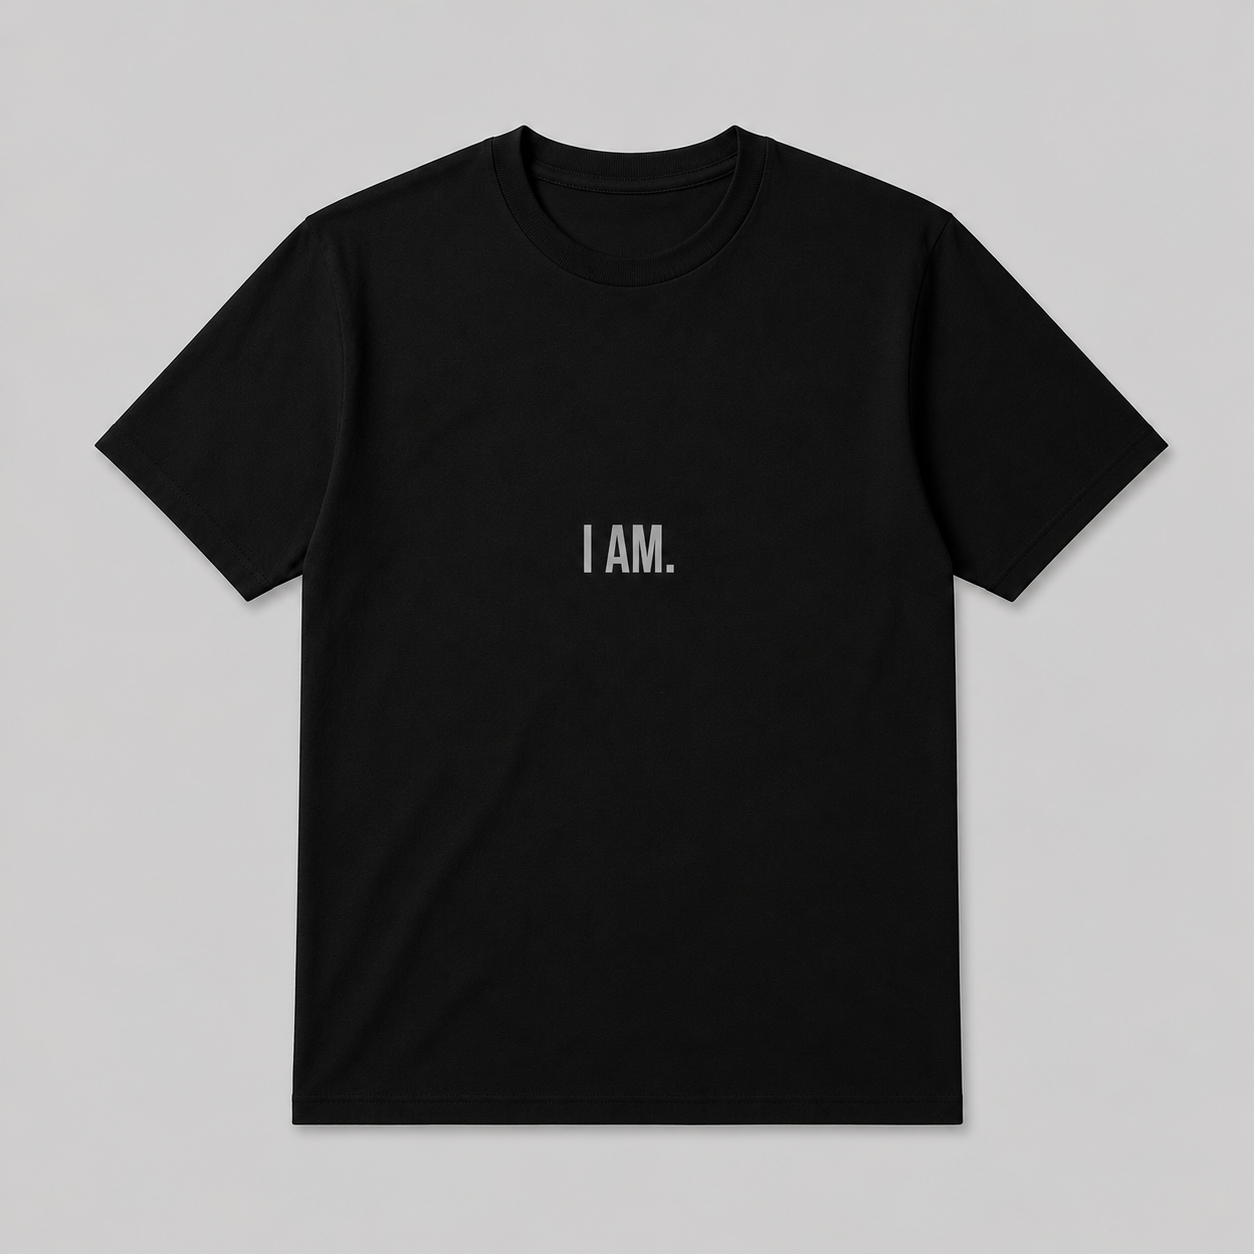
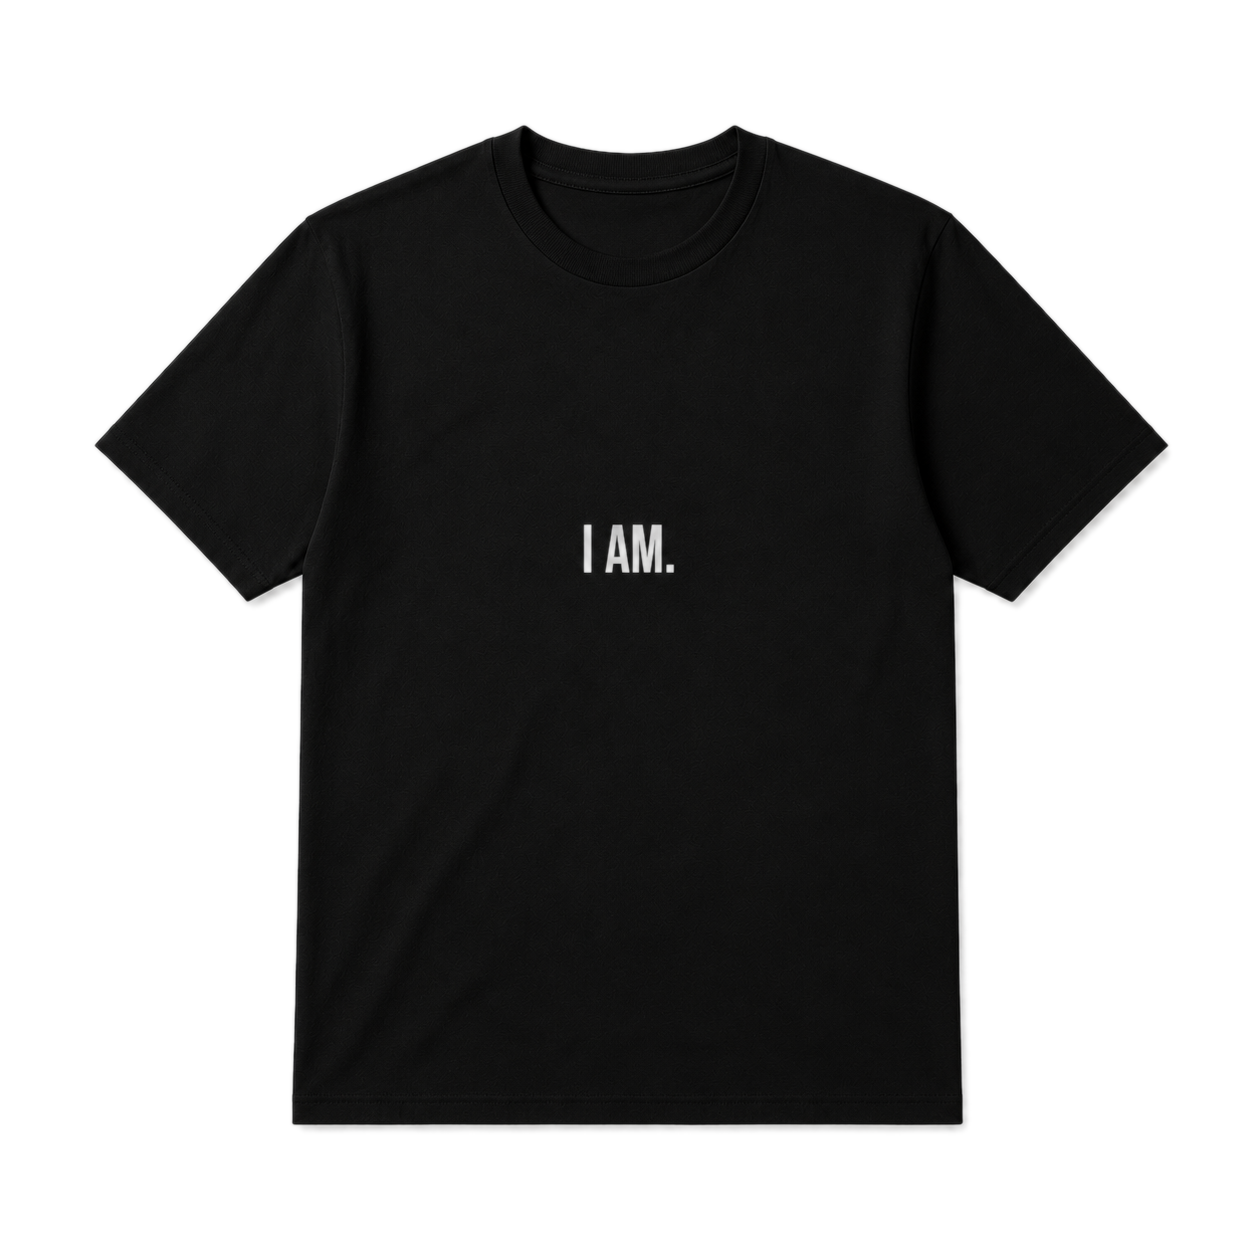
b

diff --git a/app/page.css b/app/page.css
@@ -245,7 +245,7 @@ section {
   width: 100%;
   max-width: 360px;
   height: auto;
-  border-radius: 4px;
+  filter: drop-shadow(0 30px 40px rgba(0, 0, 0, 0.55));
 }
 
 /* SOCIAL */